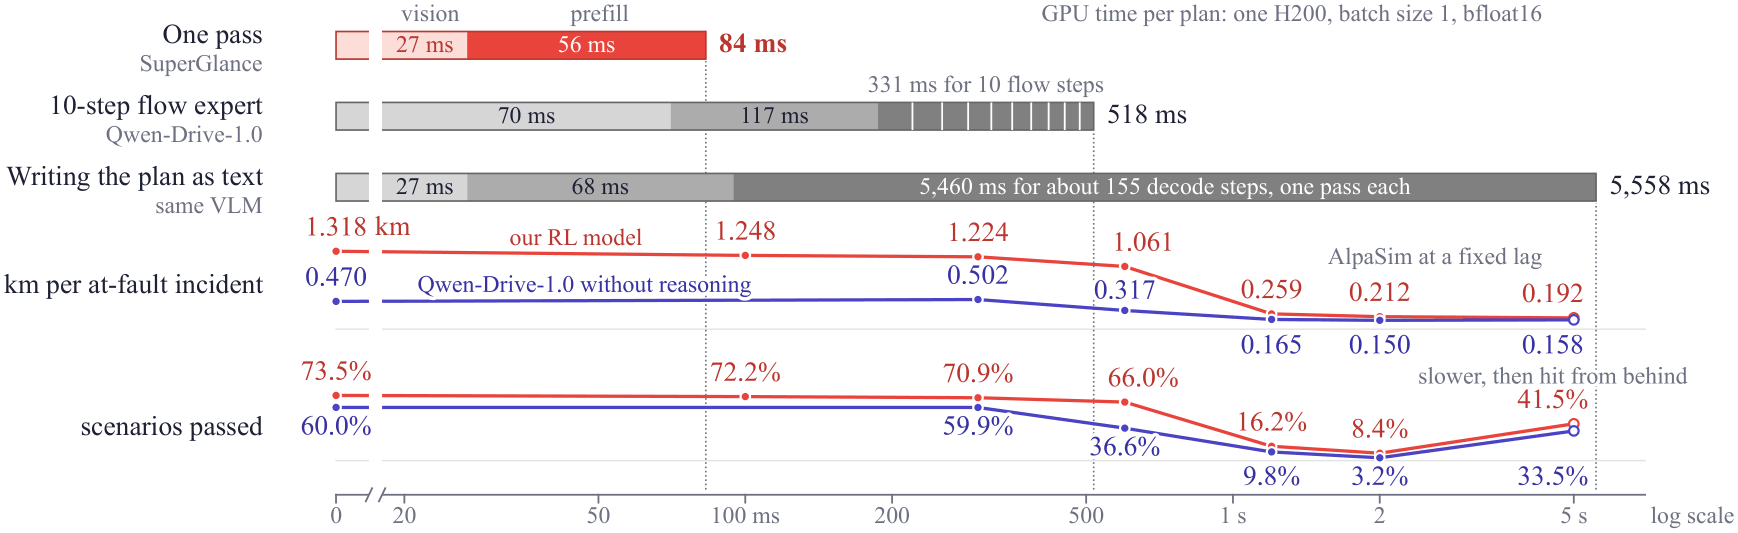
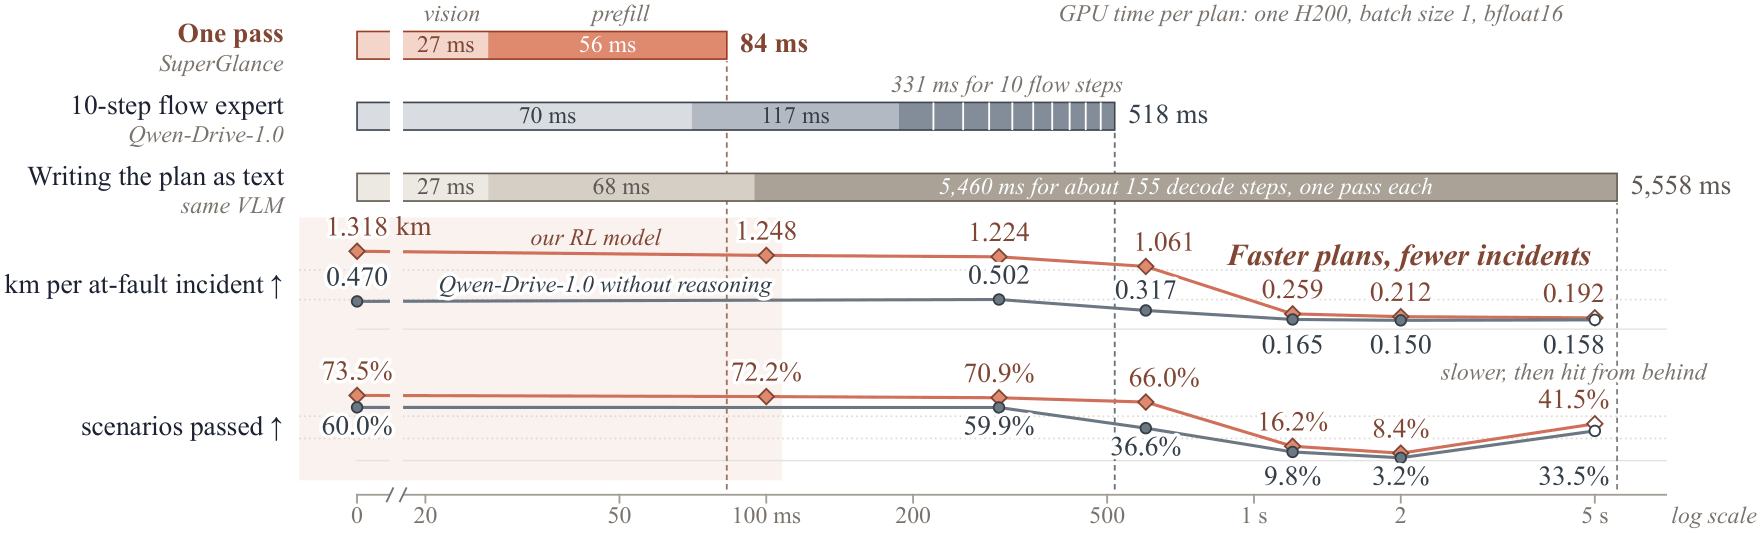
README: Fig. 6 and captions as in arXiv v2

diff --git a/README.md b/README.md
@@ -27,7 +27,7 @@ Zhuoxuan Li<sup>6</sup>, Yuguang Yang<sup>7</sup>, [Rongjunchen Zhang](https://s
 </div>
 
 <p align="center"><img src="docs/teaser.png" width="100%" alt="GPU time per plan, driving benchmarks and question answering"></p>
-<p align="center"><sub>SuperGlance plans in one forward pass, 6.2 times faster than Qwen-Drive-1.0, and leads it on ten of eleven QA benchmarks and on every driving benchmark (Figure 1 of the paper; ring bars start above zero).</sub></p>
+<p align="center"><sub>SuperGlance plans in one pass, 6.2 times faster than Qwen-Drive-1.0, and is at or above it on ten of eleven QA and all driving benchmarks (Figure 1 of the paper; middle: Qwen-Drive-1.0 at its best per benchmark; ring bars start above zero; longer ADE bars mean lower error).</sub></p>
 
 ## News
 
@@ -42,7 +42,8 @@ Zhuoxuan Li<sup>6</sup>, Yuguang Yang<sup>7</sup>, [Rongjunchen Zhang](https://s
 
 ## Method
 
-<p align="center"><img src="docs/arch.png" width="95%" alt="SuperGlance architecture"></p>
+<p align="center"><img src="docs/arch.png" width="95%" alt="Three ways a vision-language model produces a plan"></p>
+<p align="center"><sub>Three ways a vision-language model produces a plan (Figure 2 of the paper). Only (c) has no loop: SuperGlance reads the last hidden state h once, at [ANS], and its Policy Head gives a probability (outline width and opacity) to each of 5,273 fixed candidates; for questions, the LM head gives one to each option letter. Each bottom strip shows one plan's measured GPU time to scale; in (a), our VLM writing text runs off its axis.</sub></p>
 
 SuperGlance turns a vision-language model (VLM) into a driving policy that plans in one forward pass. The model reads the
 front camera (the current frame and three past frames), the ego state and the navigation command. A linear Policy Head on
@@ -51,7 +52,7 @@ plan is the probability-weighted mean of the 64 most probable candidates at temp
 state answers multiple-choice questions through the language-model head's option-letter logits, also without generating.
 The VLM is Qwen3.5-9B with rank-32 LoRA adapters, trained in three stages: multiple-choice question answering on general
 images and text (stage 1) and on driving scenes (stage 2) keeps the VLM's visual abilities; stage 3 trains the policy,
-first supervised toward a reward-weighted target over the candidates, then with reinforcement learning (RL) on the exact
+first toward a supervised target that can weight candidates by reward, then with reinforcement learning (RL) on the exact
 expected reward over all candidates.
 
 | stage | data | objective | start | steps x rows |
@@ -81,7 +82,7 @@ The final model, SuperGlance-9B, as reported in the paper:
 | GPU time per plan (one H200) | ms | 84 |
 
 <p align="center"><img src="docs/latency.png" width="100%" alt="Time per plan and distance in closed loop"></p>
-<p align="center"><sub>Time per plan and distance in closed loop (Figure 6 of the paper). Top: 84 ms of GPU time per plan in our single pass, 518 ms in Qwen-Drive-1.0 with 10 flow steps and 5,558 ms when our VLM writes the plan as text. Bottom: in AlpaSim, with each time as the plan's delay, km per at-fault incident holds for both planners up to 300 ms and drops beyond.</sub></p>
+<p align="center"><sub>Time per plan and distance in closed loop (Figure 6 of the paper). Top: 84 ms of GPU time per plan in our single pass, 518 ms in Qwen-Drive-1.0 with 10 flow steps and 5,558 ms when our VLM writes the plan as text. Bottom: in AlpaSim, each time (dashed) becomes the next 100-ms lag; both planners keep their km per at-fault incident within 8% up to 300 ms, and it drops beyond. At 5 s every plan arrives after its last pose (hollow): both planners drive more slowly and vehicles behind hit them, which is not at fault and ends the scenario as a pass.</sub></p>
 
 ## Installation
 
@@ -323,8 +324,8 @@ WOD_TEST=<test TFRecord shards> WOD_LIST=<test_sequence_frames_for_submission_as
 ```
 
 The WOD-E2E protos come from the `waymo-open-dataset` package, or set `WOD_PROTOS` to the Python modules generated from its
-`.proto` files. The script builds the rows of the listed frames (front camera, re-projected to CAM_F0; the test split has
-no past frames), extracts the features, reads `mean02` (the paper's readout) and `mbr02`, and writes and checks one
+`.proto` files. The script builds the rows of the listed frames (FRONT, FRONT_LEFT and FRONT_RIGHT re-projected into CAM_F0 by
+rotation; the test split has no past frames), extracts the features, reads `mean02` (the paper's readout) and `mbr02`, and writes and checks one
 submission package per readout (`runs/wod/sub/`). It uploads nothing: it prints the `wod_submit fill` command for the
 account, method and author fields, and the filled `mean02` package is uploaded on the challenge page. Table 5's row is the
 server's RFS and ADE of that package.
